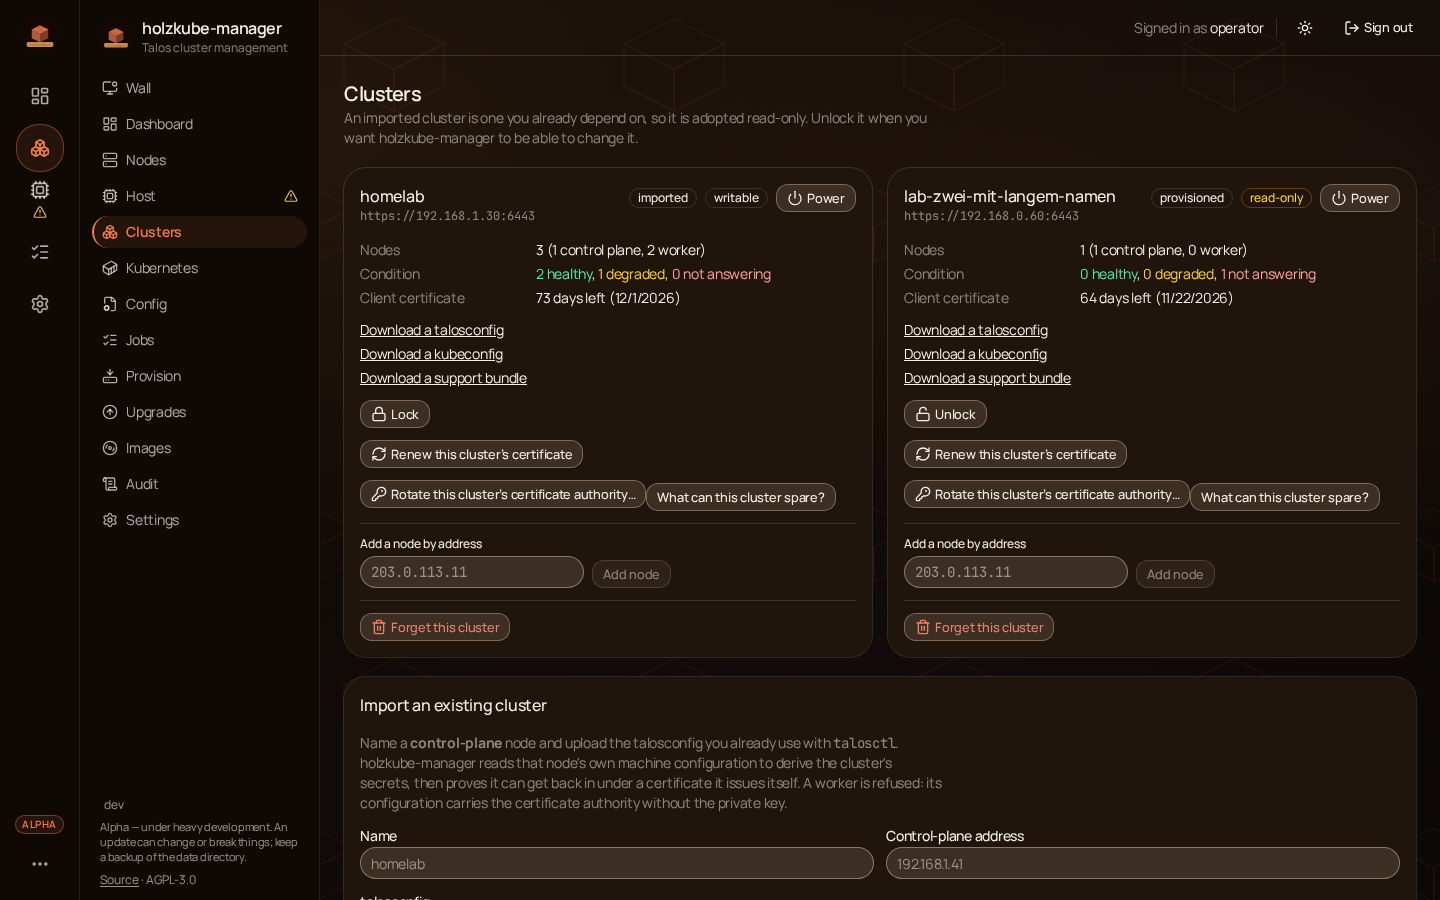
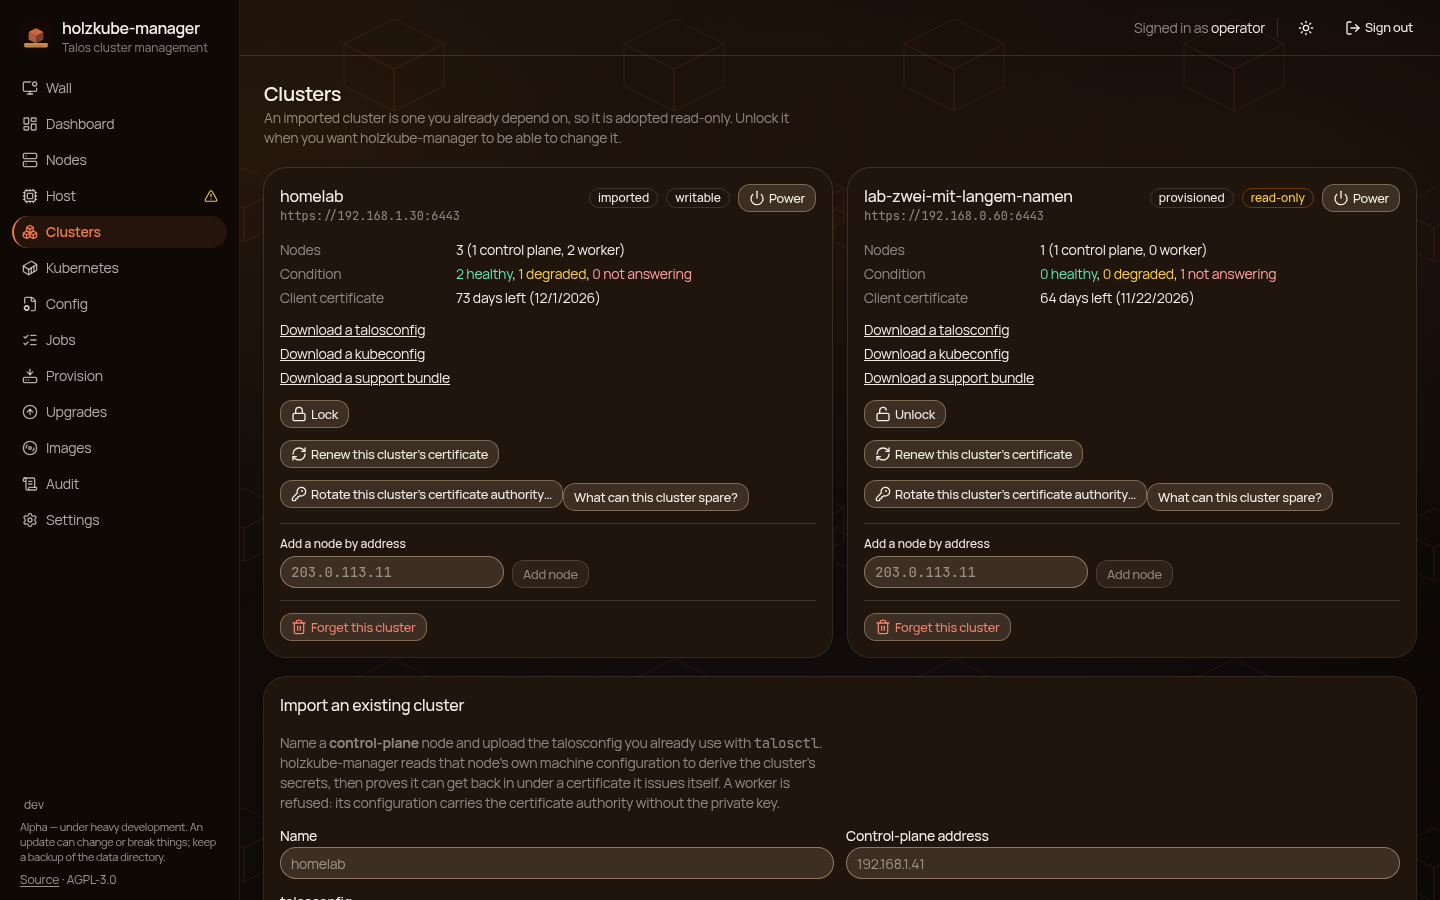
Redesign fix: one navigation on a wide screen, dashboard cards that stack
The permanent list and the icon rail stood side by side from md up, two
columns for the same areas. The rail now shows from md to lg only and the
list is alone from lg. The metric cards were a Button around a block Link,
so label, number and detail ran into one clipped row; they are a plain Link
card now. Changelog v0.3.1, screenshots rendered again. jsdom 846 green,
layout audit green; the browser suite cannot run in this container.

Claude-Session: https://claude.ai/code/session_01NtRnCYXbriV4BjszEhUnec

diff --git a/web/src/routes/index.tsx b/web/src/routes/index.tsx
@@ -46,40 +46,35 @@ function MetricCard({
   state?: 'default' | 'warn' | 'danger'
 }) {
   return (
-    <Button
-      asChild
-      variant="ghost"
-      className="group h-auto w-full justify-start rounded-2xl border border-border bg-card p-5 text-left hover:border-primary/45 hover:bg-card"
+    <Link
+      to={href}
+      className="group flex flex-col rounded-2xl border border-border bg-card p-5 transition-colors hover:border-primary/45 focus-visible:outline-2 focus-visible:outline-offset-2 focus-visible:outline-ring"
     >
-      <Link to={href} className="block">
-        <div className="flex w-full items-center gap-2">
-          <h3 className="text-sm font-semibold">{title}</h3>
-          {badge && (
-            <Badge
-              variant="outline"
-              className={cn(
-                'ml-auto',
-                state === 'warn' && 'border-amber-600/40 text-amber-700 dark:text-amber-300',
-                state === 'danger' && 'border-red-600/40 text-red-700 dark:text-red-300',
-              )}
-            >
-              {badge}
-            </Badge>
-          )}
-        </div>
-        <p className="mt-3 font-heading text-4xl font-bold tracking-tight tabular-nums">
-          {value}
-          {unit && (
-            <span className="ml-1.5 text-sm font-semibold text-muted-foreground">{unit}</span>
-          )}
-        </p>
-        <p className="mt-1 text-xs text-muted-foreground">{detail}</p>
-        <ArrowRight
-          aria-hidden="true"
-          className="mt-3 size-4 text-muted-foreground transition-transform group-hover:translate-x-0.5"
-        />
-      </Link>
-    </Button>
+      <div className="flex items-center gap-2">
+        <h3 className="text-sm font-semibold">{title}</h3>
+        {badge && (
+          <Badge
+            variant="outline"
+            className={cn(
+              'ml-auto',
+              state === 'warn' && 'border-amber-600/40 text-amber-700 dark:text-amber-300',
+              state === 'danger' && 'border-red-600/40 text-red-700 dark:text-red-300',
+            )}
+          >
+            {badge}
+          </Badge>
+        )}
+      </div>
+      <p className="mt-3 font-heading text-4xl font-bold tracking-tight tabular-nums">
+        {value}
+        {unit && <span className="ml-1.5 text-sm font-semibold text-muted-foreground">{unit}</span>}
+      </p>
+      <p className="mt-1 text-xs break-words text-muted-foreground">{detail}</p>
+      <ArrowRight
+        aria-hidden="true"
+        className="mt-auto size-4 pt-0 text-muted-foreground transition-transform group-hover:translate-x-0.5"
+      />
+    </Link>
   )
 }
 
@@ -159,7 +154,7 @@ function Dashboard() {
         />
       </div>
 
-      <div className="max-w-3xl rounded-2xl border border-border bg-card p-5">
+      <div className="rounded-2xl border border-border bg-card p-5">
         <div className="flex items-baseline justify-between gap-2">
           <div>
             <h2 className="font-heading text-base font-semibold">Recent activity</h2>

diff --git a/web/src/components/Sidebar.tsx b/web/src/components/Sidebar.tsx
@@ -203,7 +203,7 @@ const isActive = (pathname: string, path: string) =>
   path === '/' ? pathname === '/' : pathname === path || pathname.startsWith(`${path}/`)
 
 /**
- * The rail (md and up): the brand mark, one icon button per primary area, and
+ * The rail (md up to lg): the brand mark, one icon button per primary area, and
  * the ellipsis that opens the drawer with everything else. Tooltips come from
  * the title attribute; a hover CSS popover would be a second copy of what the
  * accessible name already says.
@@ -214,7 +214,7 @@ export function RailNav({ onOpenMore, moreOpen }: { onOpenMore?: () => void; mor
   return (
     <nav
       aria-label="Primary navigation"
-      className="hidden h-full w-20 shrink-0 flex-col items-center gap-1 border-r border-sidebar-border bg-sidebar px-2 py-3 md:flex"
+      className="hidden h-full w-20 shrink-0 flex-col items-center gap-1 border-r border-sidebar-border bg-sidebar px-2 py-3 md:flex lg:hidden"
     >
       <Link
         to="/"
@@ -327,15 +327,13 @@ export function NavDrawer({
       aria-label="Main navigation"
       className={cn(
         'flex h-full shrink-0 flex-col gap-1 bg-sidebar',
-        'max-md:fixed',
-        // Below md: out of the flow, over the page, off the left edge until asked for.
-        'max-md:fixed max-md:inset-y-0 max-md:left-0 max-md:z-50 max-md:w-72 max-md:border-r max-md:border-sidebar-border max-md:p-3 max-md:shadow-xl',
-        'max-md:overflow-y-auto max-md:transition-transform max-md:duration-200 max-md:ease-out',
-        open ? 'max-md:translate-x-0 max-md:visible' : 'max-md:-translate-x-full max-md:invisible',
-        // On md and up: a permanent column beside the rail, the desk's own
-        // list. The audit's desk pass reads the version button without opening
+                // Below md: out of the flow, over the page, off the left edge until asked for.
+        'max-lg:fixed max-lg:inset-y-0 max-lg:left-0 max-lg:z-50 max-lg:w-72 max-lg:border-r max-lg:border-sidebar-border max-lg:p-3 max-lg:shadow-xl',
+        'max-lg:overflow-y-auto max-lg:transition-transform max-lg:duration-200 max-lg:ease-out',
+        open ? 'max-lg:translate-x-0 max-lg:visible' : 'max-lg:-translate-x-full max-lg:invisible',
+        // From lg up: the permanent column, the desk's own list, alone. The audit's desk pass reads the version button without opening
         // anything, so the list is there rather than behind the ellipsis.
-        'md:sticky md:top-0 md:w-60 md:border-r md:border-sidebar-border md:p-3',
+        'lg:sticky lg:top-0 lg:w-60 lg:border-r lg:border-sidebar-border lg:p-3',
       )}
     >
       <div className="mb-3 flex items-center gap-2.5 px-2 pt-1">

diff --git a/web/src/components/AppShell.tsx b/web/src/components/AppShell.tsx
@@ -77,7 +77,7 @@ export function AppShell() {
           <button
             type="button"
             aria-label="Close the navigation"
-            className="fixed inset-0 z-40 bg-background/70"
+            className="fixed inset-0 z-40 bg-background/70 lg:hidden"
             onClick={() => setNavOpen(false)}
           />
         )}
